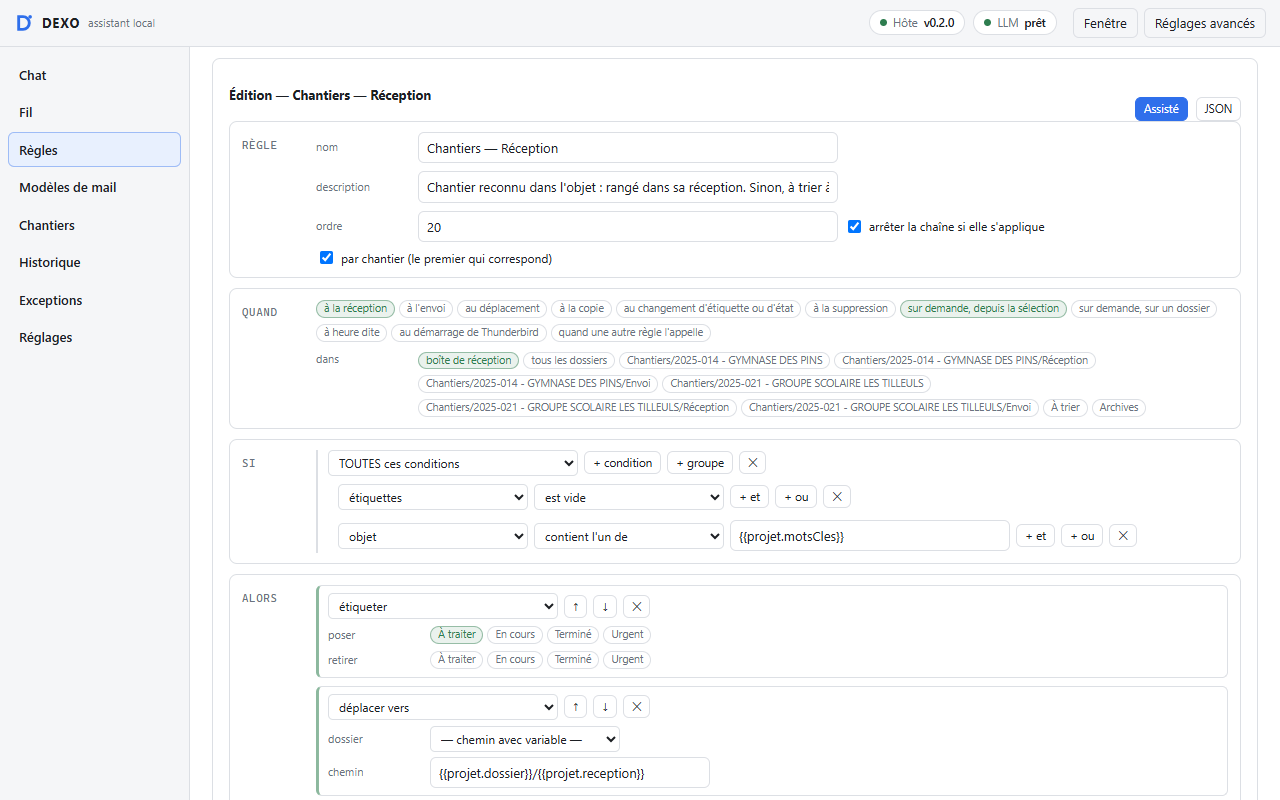
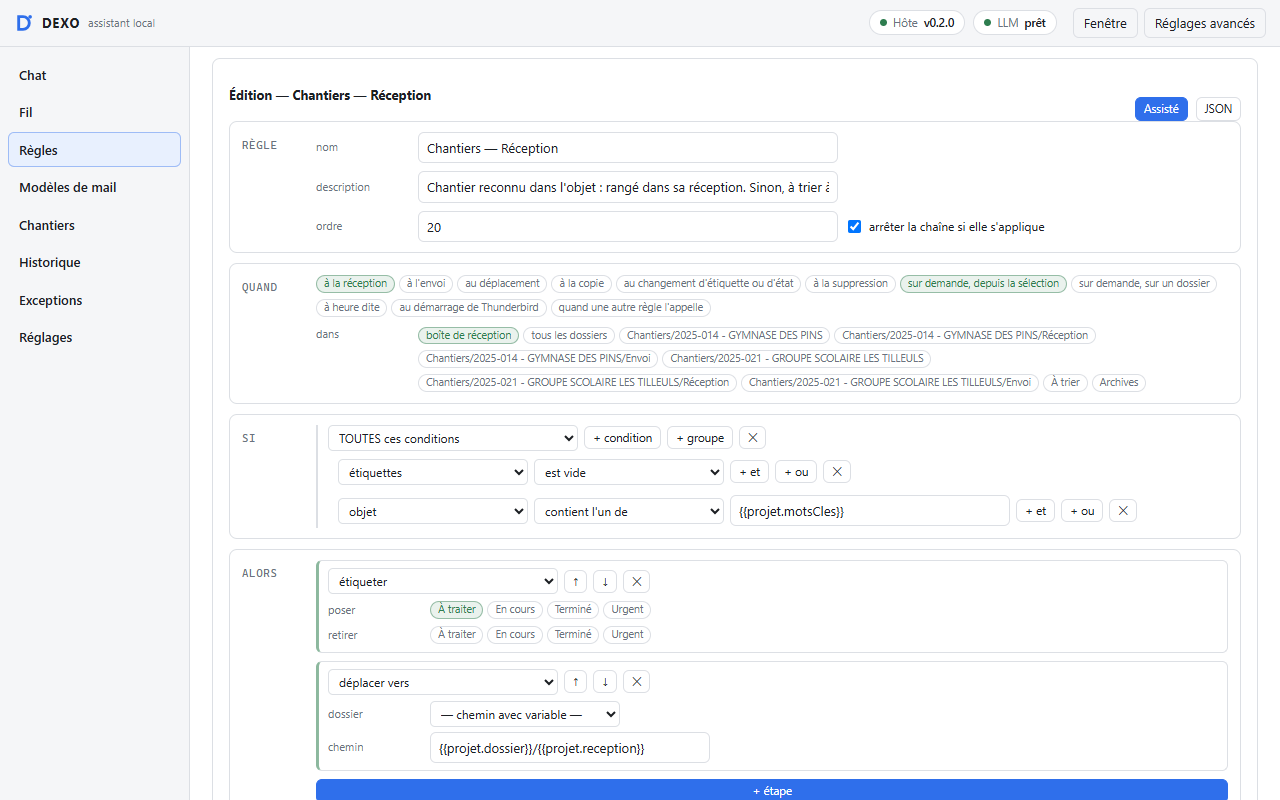
DEXO 1.0.2

Changed region(s): [[0.1875, 0.3125, 0.9688, 1.0]]

diff --git a/CHANGELOG.md b/CHANGELOG.md
@@ -3,6 +3,22 @@
 Chaque version publiée a sa section ici : l'outil de publication refuse une version qui n'en
 a pas, et c'est ce texte qui accompagne la version sur GitHub.
 
+## 1.0.2
+
+- **Règles :** plus de case « par chantier ». Un SI qui parle du chantier
+  (`{{projet.motsCles}}`…) cherche lui-même le chantier, où qu'il soit dans la règle : une
+  règle s'écrit comme on la pense — « pas d'étiquette → si c'est un chantier, sa réception ;
+  sinon si CR… ; sinon triage manuel ». Écrite ainsi, elle échouait sans la case, et avec elle
+  ne cherchait que le premier chantier de la liste. Les règles existantes continuent de marcher.
+- **Règles :** la complétion propose `{{projet…}}` dans les SI, et les dossiers du chantier sous
+  un SI qui l'a trouvé. L'enregistrement prévient quand un `{{projet…}}` est placé là où aucun
+  chantier n'aura été trouvé.
+- **Correction :** annuler une exécution de règle rend aussi les étiquettes. Quand la règle
+  avait étiqueté puis rangé un message, l'annulation le remettait bien dans son dossier mais lui
+  laissait ses étiquettes.
+- **Apparence :** le logo DEXO de la barre de gauche est bleu en thème sombre, noir en thème
+  clair. En thème sombre, Thunderbird 156 affichait le logo sombre, à peine visible.
+
 ## 1.0.1
 
 - **Correction :** le chat n'affiche plus le mot « null » au-dessus de tes messages quand ils

diff --git a/README.md b/README.md
@@ -14,7 +14,7 @@ repère l'urgent et prépare ta réponse. Tu relis, tu envoies. Tout reste sur t
 
 | Les règles | Le fil |
 |---|---|
-| ![L'éditeur de règles : une règle « par chantier »](captures/regles.png) | ![Le fil : comptes rendus, devis, rangements douteux](captures/fil.png) |
+| ![L'éditeur de règles : chaque mail rangé dans son chantier](captures/regles.png) | ![Le fil : comptes rendus, devis, rangements douteux](captures/fil.png) |
 | Une seule règle pour tous tes chantiers : chaque mail rejoint le bon dossier, reconnu à son numéro ou à son nom. Tu la simules avant de l'activer, et tu annules d'un clic. | L'essentiel sans ouvrir chaque mail : actions tirées des comptes rendus, devis repérés avec leur montant, rangements douteux corrigés d'un clic. |
 
 ## Ce que fait DEXO
